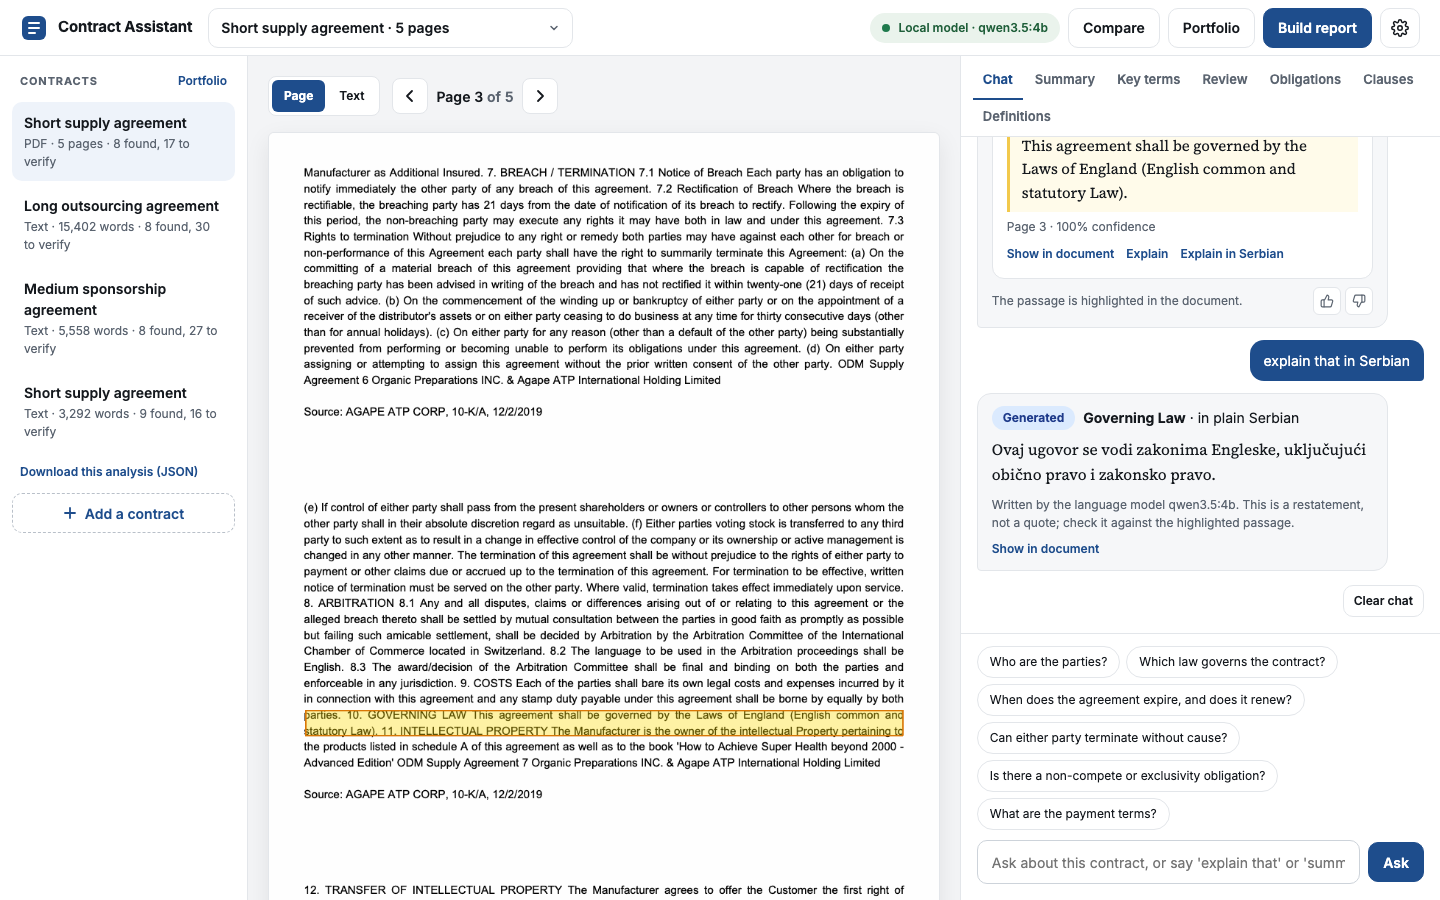
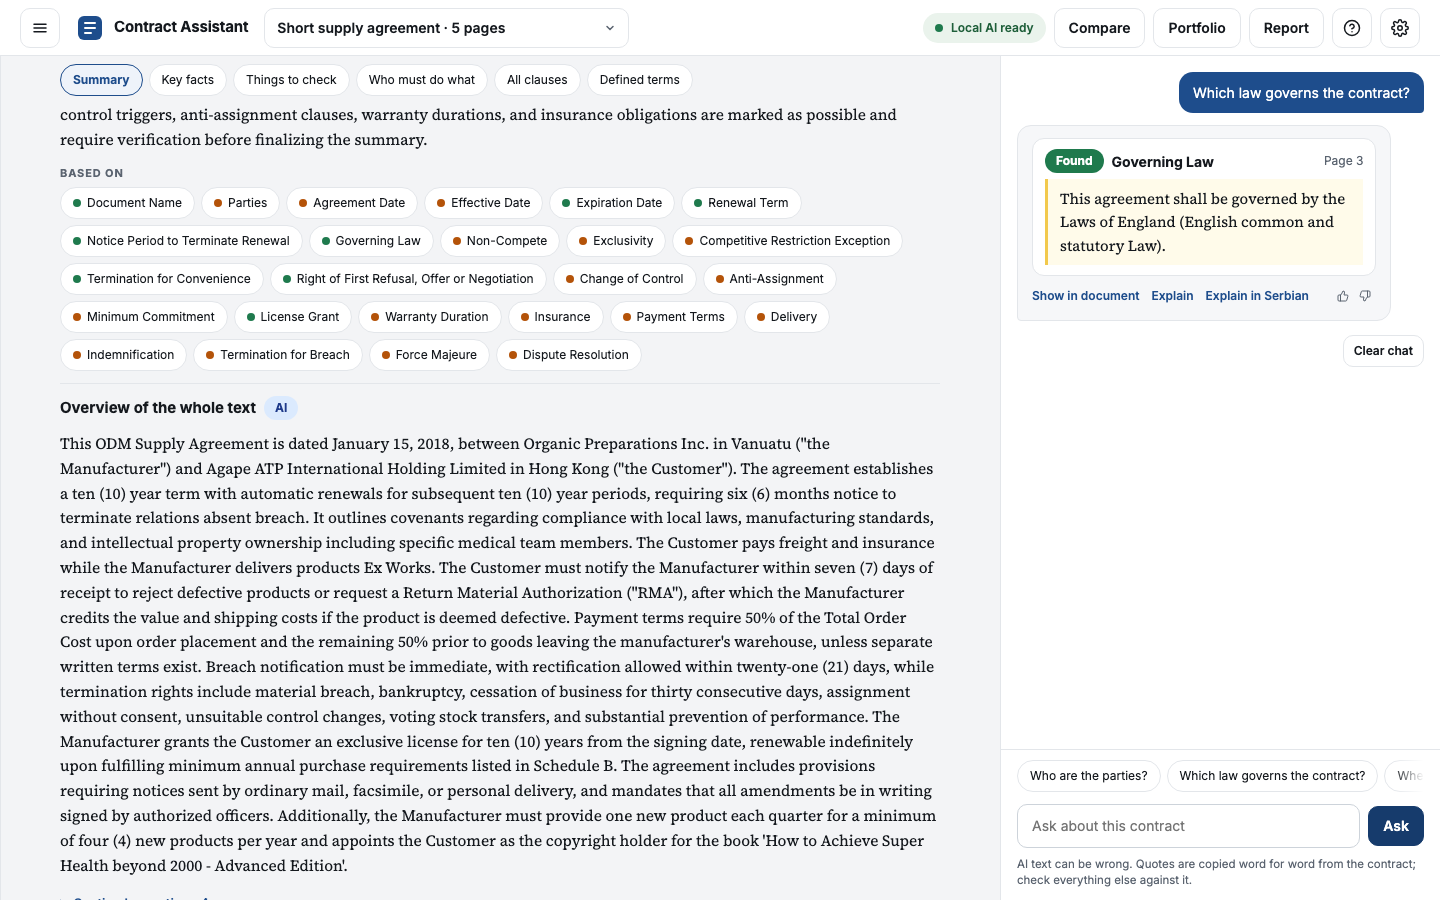
Describe the second design in the README with new screenshots

diff --git a/README.md b/README.md
@@ -29,12 +29,16 @@ matches no clause from the passages closest to it. This text is generated and la
 such. Quotes inside it are verified against the contract.
 
 The web app is a FastAPI application with server-rendered pages (Jinja2 templates, htmx and
-a small script; no build step). Its workspace has three panes: the contracts, the document
-with the cited passage highlighted (the page of the PDF with the passage boxed, for a PDF),
-and an insights panel with the chat, the summary, the key terms, the review flags, the
-obligations, the clause checklist and the defined terms. Two more pages compare two
-contracts and list the portfolio. Generated text streams in as it is written and is checked
-when complete; a Stop button cancels it.
+a small script; no build step), written for readers who are not lawyers or developers. The
+workspace shows an overview of the contract (summary, key facts, things to check, who must
+do what, all clauses, defined terms) or the document itself with the cited passage
+highlighted (the page of the PDF with the passage boxed, for a PDF), next to a chat that is
+always open. The contracts live in a sidebar that slides in. A passage the assistant is not
+sure about is marked "Check this" and carries Confirm and Not this buttons: a confirmed
+passage counts as found everywhere, a rejected one is dropped, and the decision is kept per
+contract under `cache/decisions/`. Generated text carries a small AI badge and streams in as
+it is written; one notice under the chat says that AI text can be wrong. Two more pages
+compare two contracts and list the portfolio.
 
 ## Install
 
@@ -86,6 +90,7 @@ a new contract needs the model, and the app says so.
 make demo         # the web app at http://127.0.0.1:7860
 make web-dev      # the web app on fake backends at http://127.0.0.1:7861, reloads on save
 make ui-dev       # the older Gradio app on fake backends
+.venv/bin/contract-assistant serve --fresh   # empty cache: analyse the sample contracts live
 make test         # fast tests
 make lint         # ruff
 make router-eval  # router-eval --router llm --split test
@@ -100,7 +105,10 @@ make passage-eval # passage-eval
 prepares the summaries, key terms and obligations of the cached contracts in the background
 at start-up and after an upload; `serve --no-precompute` turns it off. Generated text
 appears in the web app as it is written and is checked when complete. A Stop button cancels
-a running request.
+a running request. `serve --fresh` starts with an empty temporary cache and no demo caches,
+so the first page offers the sample contracts of `demo/` (three texts and a five-page PDF)
+to analyse live, with the progress shown step by step, and the summaries are then written
+in front of the reader.
 
 The first `make demo` loads the embedding model and downloads it if it is not cached. With
 Ollama, the app loads the router model at start-up (up to 120 s) and keeps it loaded for 30
@@ -202,36 +210,41 @@ the reply says that the question does not match a clause.
 That is the command-line template. The demo documents are plain text, so there are no page
 numbers (`p. n/a`); a PDF gives the page.
 
-The web app labels the same tiers Found, Verify and Not found. An answer in the chat is a
-card per clause type with the quote, the page and the confidence; the document pane opens
-at the passage, highlighted in the text or boxed on the page of the PDF (rendered from the
-copy kept under `cache/documents/` for a PDF uploaded through the app or analysed with
-`extract`; the demo text files show the excerpt). Under the page or the excerpt, a passage
-card offers Explain, Explain in Serbian and Copy quote. The Clauses tab lists all 49 clause
-types by topic with a status filter; a row opens its passage. The thresholds are two sliders
-in the settings menu (the gear in the top bar), next to the technical details; every panel
-follows them at once. Build report, in the top bar, writes the DOCX and Markdown report
-from the saved parts and offers both files in the contracts rail.
+The web app calls the same tiers Found, Check this and Not found, and explains them in a
+help popover (the question mark in the top bar). An answer in the chat is a card per clause
+with the quote and the page; the document pane opens at the passage, highlighted in the text
+or boxed on the page of the PDF (rendered from the copy kept under `cache/documents/` for a
+PDF uploaded through the app or analysed with `extract`; the demo text files show the
+excerpt). A passage marked Check this carries Confirm and Not this, in the chat, in the
+overview and under the document; Undo takes a decision back. The overview lists what the
+assistant did ("49 clauses: 8 found, 17 to check, 24 not found") and the six sections, each
+reachable from a row of chips. Confidence numbers, model names and the thresholds stay out
+of the main screens: the thresholds are two sliders under Advanced (the gear), next to the
+technical details. Report, in the top bar, writes the DOCX and Markdown report from the
+saved parts.
 
 | | |
 |---|---|
-| ![The workspace with a found answer](docs/screenshots/workspace.png) | ![The passage card under the PDF page](docs/screenshots/page.png) |
-| A found answer: the card in the chat, the passage boxed on the page of the PDF. | The passage card under the page, with Explain and Copy quote. |
-| ![A clause restated in Serbian](docs/screenshots/chat.png) | ![A defined term](docs/screenshots/definition.png) |
-| "explain that in Serbian": a restatement, labelled Generated. | "What is an RMA?": the sentence of the contract that defines the term, no model. |
-| ![An answer written from the passages](docs/screenshots/generated.png) | ![The summary of a contract](docs/screenshots/summary.png) |
-| A question outside the clause types: the related passages, each a verbatim slice. | The Summary tab, written from the clauses found, English or Serbian. |
-| ![The key terms of a contract](docs/screenshots/terms.png) | ![The review flags of a contract](docs/screenshots/review.png) |
-| The key terms, each a verbatim value from a clause found, and the key dates. | Review flags from the rule file, with a passage and a note on request. |
-| ![Obligations by party](docs/screenshots/obligations.png) | ![The clause checklist](docs/screenshots/checklist.png) |
-| Who must, may or must not do what, each entry a verbatim slice of a clause. | All 49 clause types by topic, with the status filter. |
-| ![Two contracts compared](docs/screenshots/compare.png) | ![The portfolio](docs/screenshots/portfolio.png) |
-| Two contracts side by side: the key terms, the flags and the clause types that differ. | Every analysed contract with its coverage, key terms and flags. |
+| ![The first page of a fresh start](docs/screenshots/first-run.png) | ![A sample contract being analysed](docs/screenshots/progress.png) |
+| A fresh start: upload a contract or analyse a sample. | The analysis runs on this computer, with its progress shown. |
+| ![The overview filling in](docs/screenshots/generating.png) | ![The overview of a contract](docs/screenshots/overview.png) |
+| Right after the analysis the summary and the key facts are written in front of the reader. | The overview: what the assistant did, the summary and the sections below it. |
+| ![All clauses with Confirm and Not this](docs/screenshots/clauses.png) | ![A passage confirmed by the reader](docs/screenshots/confirmed.png) |
+| All clauses: a passage to check carries Confirm and Not this. | After Confirm the passage counts as found and the document shows it boxed. |
+| ![A found answer in the chat](docs/screenshots/chat.png) | ![A clause restated in plain English](docs/screenshots/explain.png) |
+| A question answered with the quote and its page; the document opens at the passage. | "explain that": a restatement with the AI badge. |
+| ![The closest passages for a question outside the clauses](docs/screenshots/passages.png) | ![The contracts sidebar](docs/screenshots/drawer.png) |
+| A question outside the clauses: the closest passages, each copied word for word. | The contracts slide in from the left. |
+| ![The help popover](docs/screenshots/help.png) | ![Two contracts compared](docs/screenshots/compare.png) |
+| How to read the labels, in the reader's words. | Two contracts side by side: the key terms, the things to check and the clauses that differ. |
+| ![The portfolio](docs/screenshots/portfolio.png) | |
+| Every analysed contract with its coverage, key terms and flags. | |
 
 ### Defined terms and chat commands
 
 Defined terms are found by pattern: `("Term")`, `(the "Term")` and `"Term" means ...`. The web
-app lists them in the Definitions tab, each with a link to its sentence in the document. A
+app lists them in the Defined terms section of the overview, each with a link to its sentence
+in the document. A
 definition question is answered from the defining sentence, verbatim with its page, and
 labelled Definition.
 
@@ -255,8 +268,9 @@ summary is saved under `cache/summaries/` per contract, model and thresholds, so
 the thresholds writes a new one; a withheld one is not saved, so the next request asks the
 model again.
 
-The summary can be written in Serbian: the Summary tab has an English / Serbian switch, the
-command line has `summarize --language sr`, and the chat understands "summarize in Serbian". The
+The summary can be written in Serbian: the Summary section has an English / Serbian switch,
+the command line has `summarize --language sr`, and the chat understands "summarize in
+Serbian". The
 quotes stay in English. The Serbian summary is saved apart from the English one. On an Apple M4 with 16 GB, qwen3.5:4b takes about 15 to 25 s for a demo
 contract, at about 27 tokens per second.
 
@@ -267,8 +281,8 @@ for word from the quote of one clause and located in the contract with its offse
 the model gave that is not in a clause is shown as "not verified" with what the model
 wrote. A term the clauses do not state is "not stated". A value taken from the clause of
 another field names that clause. A term sheet is saved under `cache/term_sheets/`. The Key
-terms tab shows it with the key dates read from it and offers the JSON. On the command line,
-`term-sheet a.txt b.txt` prints one column per document, which is the comparison.
+facts section shows it with the key dates read from it and offers the JSON. On the command
+line, `term-sheet a.txt b.txt` prints one column per document, which is the comparison.
 
 When a question matches no clause type, the language model writes up to three sentences
 from the related passages. The same checks as for the summary apply: quoted text is
@@ -339,9 +353,9 @@ clause type that is missing, present, present together with others (all present)
 without another one (present without). The check is rule-based and uses no model. Each flag
 shows the clauses it rests on, with their quotes. A flag that rests on one of the extra
 clause types is marked as not validated. The file can be edited; a rule that names an
-unknown clause type is rejected with a message at start-up. In the Review tab, "Write a
-note" asks the language model for a short note on a flag, written from the flag's quotes and
-checked against them.
+unknown clause type is rejected with a message at start-up. In the Things to check section,
+"Write a note" asks the language model for a short note on a flag, written from the flag's
+quotes and checked against them; the severities read Important, Worth a look and Minor.
 
 The Compare page and `compare a b` put the key terms and the clause checklist of two
 contracts side by side. On the command line, rows that differ are marked with "≠"; the page
@@ -409,10 +423,11 @@ Separate git history, separate virtualenv.
 
 Inside `contract_assistant/`: `extract/` runs the encoder, `router/` maps questions to clause
 types, `web/` is the web app (`core.py` the shared state and the streamed frames,
-`generate.py` the generation steps, `chat.py`, `insights.py` and `library.py` the routes,
-`templates/` and `static/`), `ui/` is the older Gradio app, and the other modules are one
-feature each (`summary.py`, `term_sheet.py`, `review.py`, `compare.py`, `report.py`, ...).
-Tests of the web app are in `tests/web/`.
+`generate.py` the generation steps, `copy.py` the words the pages show, `chat.py`,
+`insights.py`, `library.py` and `decide.py` the routes, `templates/` and `static/`),
+`decisions.py` keeps the reader's Confirm and Not this decisions, `ui/` is the older Gradio
+app, and the other modules are one feature each (`summary.py`, `term_sheet.py`, `review.py`,
+`compare.py`, `report.py`, ...). Tests of the web app are in `tests/web/`.
 
 ## Relationship to `cuad-encoder`
 
